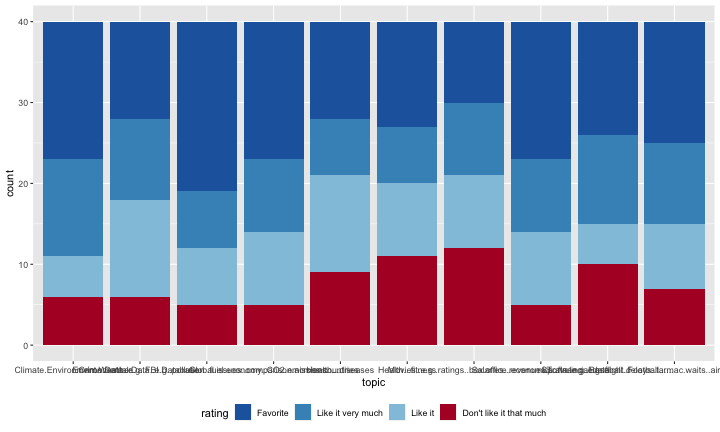
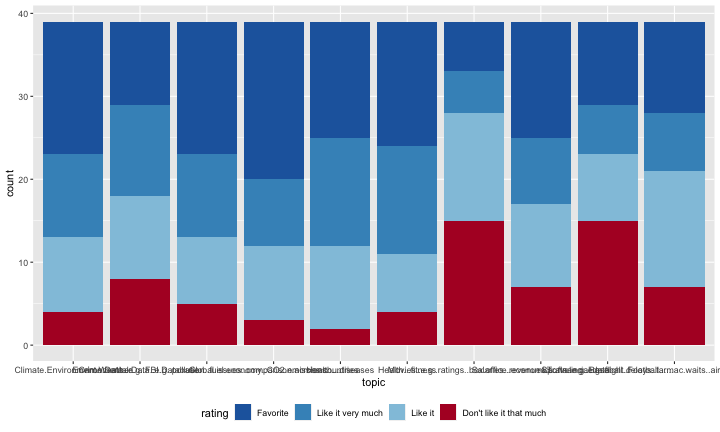
update to choice of topics

diff --git a/01_collaborative-environment/01b_what-you-said.html b/01_collaborative-environment/01b_what-you-said.html
@@ -4,7 +4,7 @@
     <title>Stat 579 - What you said</title>
     <meta charset="utf-8" />
     <meta name="author" content="Heike Hofmann" />
-    <meta name="date" content="2019-09-02" />
+    <meta name="date" content="2020-08-25" />
     <link href="libs/remark-css-0.0.1/default.css" rel="stylesheet" />
     <link href="libs/remark-css-0.0.1/default-fonts.css" rel="stylesheet" />
   </head>
@@ -14,7 +14,7 @@ class: center, middle, inverse, title-slide
 
 # Stat 579 - What you said
 ### Heike Hofmann
-### 2019-09-02
+### 2020-08-25
 
 ---
 
@@ -40,75 +40,68 @@ class: inverse, center, middle
 
 ```
 ##   Sports..e.g..Baseball..Football...... Crime.Data..e.g..FBI.Database.
-## 1                              Favorite                       Favorite
+## 1                     Like it very much                       Favorite
 ## 2                              Favorite                       Favorite
-## 3                              Favorite                        Like it
-## 4                     Like it very much                        Like it
-## 5                              Favorite                       Favorite
-## 6                              Favorite              Like it very much
+## 3               Don't like it that much                       Favorite
+## 4                               Like it              Like it very much
+## 5               Don't like it that much                        Like it
+## 6                               Like it                        Like it
 ##    Health...fitness Health...diseases
-## 1 Like it very much Like it very much
-## 2 Like it very much          Favorite
-## 3          Favorite           Like it
-## 4           Like it           Like it
-## 5          Favorite          Favorite
-## 6           Like it           Like it
-##   Movies..e.g..ratings..box.office.revenues......
-## 1                               Like it very much
-## 2                                        Favorite
-## 3                         Don't like it that much
-## 4                                         Like it
-## 5                                        Favorite
-## 6                               Like it very much
-##   Climate.Environment.Weather
-## 1                    Favorite
-## 2                    Favorite
-## 3           Like it very much
-## 4                    Favorite
-## 5                    Favorite
-## 6           Like it very much
+## 1 Like it very much           Like it
+## 2          Favorite          Favorite
+## 3          Favorite          Favorite
+## 4 Like it very much          Favorite
+## 5 Like it very much           Like it
+## 6           Like it Like it very much
+##   Movies..e.g..ratings..box.office.revenues...... Climate.Environment.Weather
+## 1                         Don't like it that much                     Like it
+## 2                                        Favorite                    Favorite
+## 3                                         Like it                    Favorite
+## 4                         Don't like it that much           Like it very much
+## 5                                        Favorite           Like it very much
+## 6                                         Like it                    Favorite
 ##   Traveling..e.g..flight.delays..tarmac.waits..airport.performance......
 ## 1                                                      Like it very much
 ## 2                                                               Favorite
 ## 3                                                               Favorite
-## 4                                                               Favorite
+## 4                                                                Like it
 ## 5                                                               Favorite
 ## 6                                                                Like it
 ##   Environmental.Data..e.g..pollution..fuel.economy..CO2.emissions......
-## 1                                                              Favorite
+## 1                                                               Like it
 ## 2                                                              Favorite
 ## 3                                                              Favorite
-## 4                                                              Favorite
+## 4                                                     Like it very much
 ## 5                                                              Favorite
-## 6                                                     Like it very much
+## 6                                                              Favorite
 ##   Salaries...economics..financial.data
-## 1                    Like it very much
+## 1              Don't like it that much
 ## 2                             Favorite
 ## 3                             Favorite
 ## 4                    Like it very much
-## 5                             Favorite
-## 6                    Like it very much
-##   Global.issues..comparison.across.countries Other.topic.s.
-## 1                                   Favorite               
-## 2                                   Favorite               
-## 3                                   Favorite               
-## 4                                   Favorite               
-## 5                                   Favorite               
-## 6                          Like it very much    Agriculture
-##                                                            Description
-## 1                                                                     
-## 2                                                                     
-## 3                                                                     
-## 4                                                                     
-## 5                                                                     
-## 6 Yield data, soil data, physiological data; literally almost anything
+## 5                    Like it very much
+## 6                              Like it
+##   Global.issues..comparison.across.countries              Other.topic.s.
+## 1                    Don't like it that much                            
+## 2                                   Favorite        Transportation Data 
+## 3                                   Favorite Natural language processing
+## 4                          Like it very much                            
+## 5                          Like it very much                            
+## 6                                   Favorite                            
+##                                                                                                                                                                                                                                                                                                                                                                                                                                                                                                                                                                                                                                                                                            Description
+## 1                                                                                                                                                                                                                                                                                                                                                                                                                                                                                                                                                                                                                                                                                                     
+## 2                                                                                                                                                                                                                                                                                                                                                                                                                                                                                                                                                                                                                                                           https://data.world/datasets/transportation
+## 3 My research is on integrated weed management. Among all the available definitions of weed, I would use "a plant out of place" to define it. I expect that the extension documents are written in a neutral tone. From time to time, I saw documents that refer to weeds as human enemies, which offers a sense of negativity. I'd like to see if the extension documents are neutral-tone, and if they are not, how to visualize the results in the most eye-catchy way. \nI understand that finding enough data and compiling them into a workable dataset would be very time-consuming. So my next question is how to do this data collection and wrangling the most effectively and efficiently. 
+## 4                                                                                                                                                                                                                                                                                                                                                                                                                                                                                                                                                                                                                                                                                                     
+## 5                                                                                                                                                                                                                                                                                                                                                                                                                                                                                                                                                                                                                                                                                                     
+## 6                                                                                                                                                                                                                                                                                                                                                                                                                                                                                                                                                                                                                                                                                                     
 ##          Date.Created Created.By Last.Updated Updated.By      IP.Address
-## 1 2019-08-27 10:34:12     public           NA         NA 129.186.253.102
-## 2 2019-08-27 10:34:14     public           NA         NA 129.186.251.101
-## 3 2019-08-27 10:34:21     public           NA         NA  129.186.248.97
-## 4 2019-08-27 10:34:21     public           NA         NA 129.186.251.101
-## 5 2019-08-27 10:34:23     public           NA         NA 129.186.251.101
-## 6 2019-08-27 10:34:26     public           NA         NA 129.186.253.102
+## 1 2020-08-17 08:24:38     public           NA         NA 129.186.253.120
+## 2 2020-08-17 14:57:22     public           NA         NA 129.186.253.101
+## 3 2020-08-17 18:58:03     public           NA         NA   173.24.204.89
+## 4 2020-08-18 06:55:23     public           NA         NA    69.5.152.161
+## 5 2020-08-18 09:22:53     public           NA         NA      69.5.141.1
+## 6 2020-08-18 10:12:25     public           NA         NA  129.186.251.33
 ##   Last.Page.Accessed Completion.Status
 ## 1                  1                 1
 ## 2                  1                 1
@@ -168,9 +161,9 @@ class: inverse, center, middle
 
 Range of other suggestions: 
 
-Agricultural studies (overwhelming support from section B 😄), everything else mentioned once ... great for final projects!
+Everything mentioned once or twice ... great for final projects 😄!
 
-video games, social good, genomics, engineering or physics data, demographics, car crashes, behavioral data
+transportation (2), golf, Reinforcement Learning &amp; Anomaly detection Learning, microbiota composition, anything COVID related including comparisons with other countries, socio economic status etc, marketing,  education, natural resources, natural language processing
     </textarea>
 <style data-target="print-only">@media screen {.remark-slide-container{display:block;}.remark-slide-scaler{box-shadow:none;}}</style>
 <script src="https://remarkjs.com/downloads/remark-latest.min.js"></script>

diff --git a/01_collaborative-environment/03_rmarkdown.html b/01_collaborative-environment/03_rmarkdown.html
@@ -38,7 +38,7 @@ nrow(pkgs)
 ```
 
 ```
-## [1] 16050
+## [1] 16085
 ```
 
 ```r
@@ -46,7 +46,7 @@ lubridate::today()
 ```
 
 ```
-## [1] "2020-08-16"
+## [1] "2020-08-20"
 ```
 
 ---
